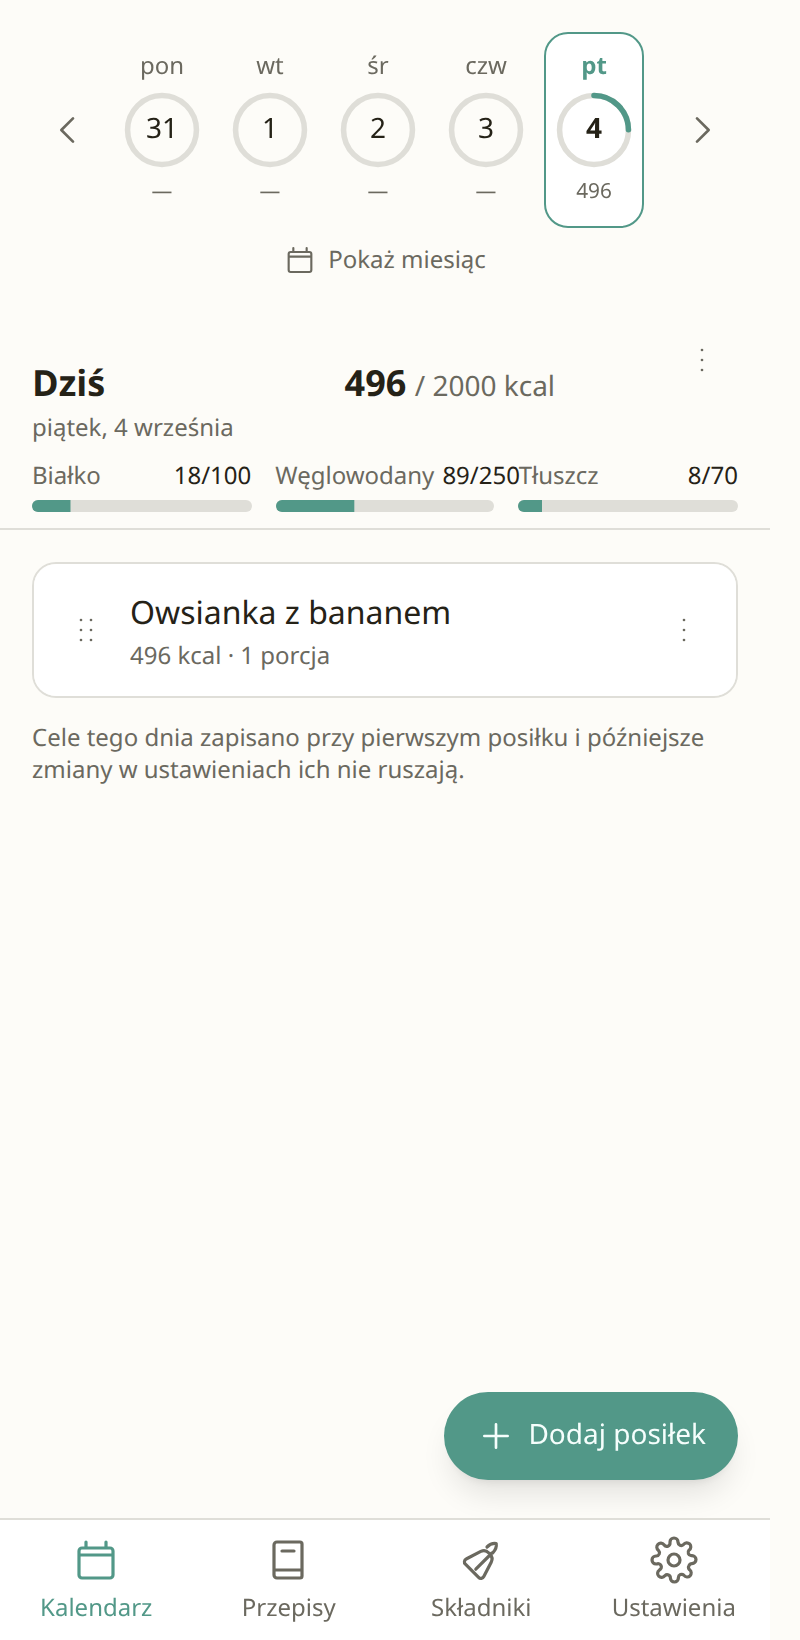
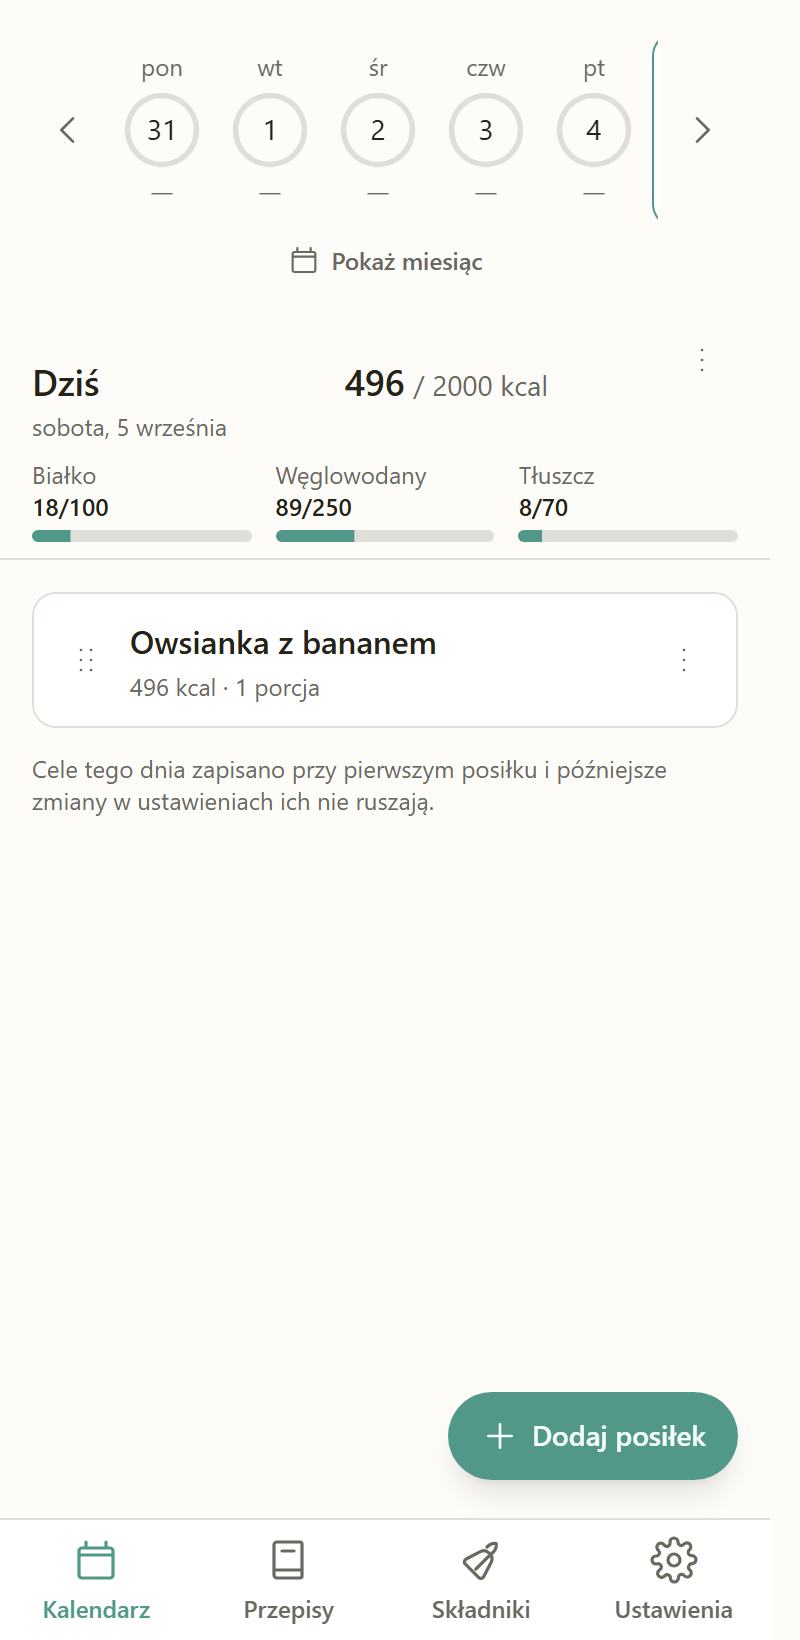
fix(day): stack each macro's numbers under its label so they stop colliding
"Węglowodany" and "249/250" need about 124 px at text-xs and a third of a
400 px screen is 114, so the middle column overflowed and printed over
"Tłuszcz" — a flex item does not shrink below its content and a grid
track is auto-sized, so neither gave way. Truncating the label was tried
first and left "Węglo…", which is not a word.

diff --git a/src/lib/components/MacroBars.svelte b/src/lib/components/MacroBars.svelte
@@ -19,12 +19,16 @@
 <ul class="grid grid-cols-3 gap-3">
   {#each rows as row (row.key)}
     {@const over = isOverGoal(row.value, row.goal)}
-    <li>
-      <p class="flex items-baseline justify-between gap-1 text-xs">
-        <span class="text-(--color-ink-muted)">{row.label}</span>
-        <span class="font-medium tabular-nums {over ? 'text-(--color-warn)' : ''}">
-          {Math.round(row.value)}/{Math.round(row.goal)}
-        </span>
+    <!-- Two lines, not one. „Węglowodany" and „249/250" together need about 124 px at this
+         size and a third of a 400 px screen is 114, so a single row overflowed its column and
+         printed over „Tłuszcz" — a flex item does not shrink below its content, and a grid
+         track is `auto`-sized. Stacking fits both at any width this app supports, keeps the
+         three bars on one baseline, and costs one line of height per day card. Truncating the
+         label instead was tried and left „Węglo…", which is not a word. -->
+    <li class="min-w-0">
+      <p class="truncate text-xs text-(--color-ink-muted)">{row.label}</p>
+      <p class="text-xs font-medium tabular-nums {over ? 'text-(--color-warn)' : ''}">
+        {Math.round(row.value)}/{Math.round(row.goal)}
       </p>
       <svg
         class="mt-1 h-1.5 w-full rounded-full bg-(--color-border) {over
